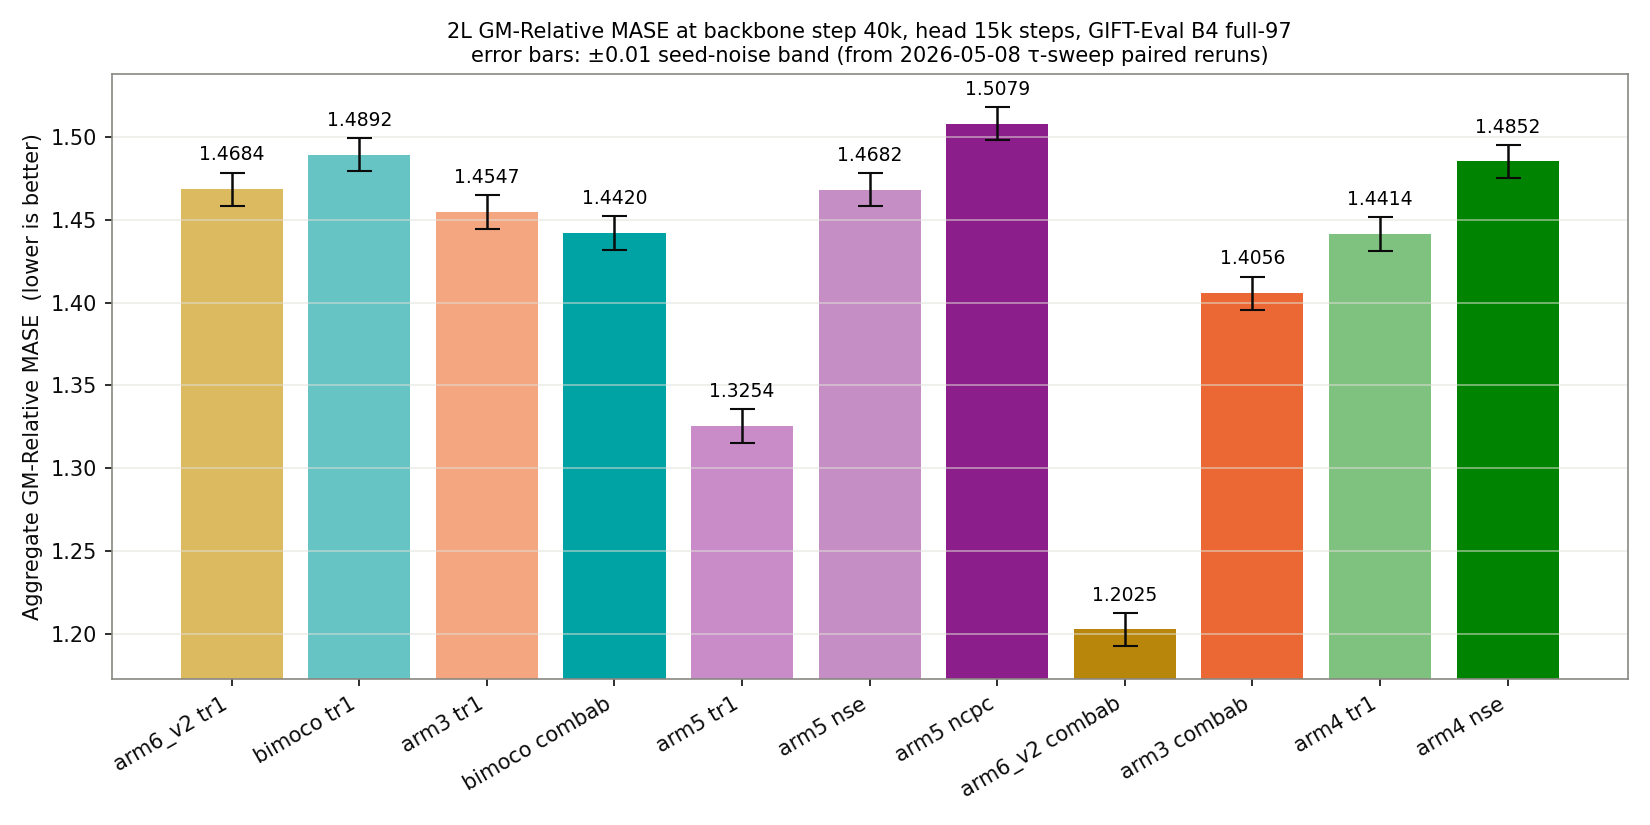
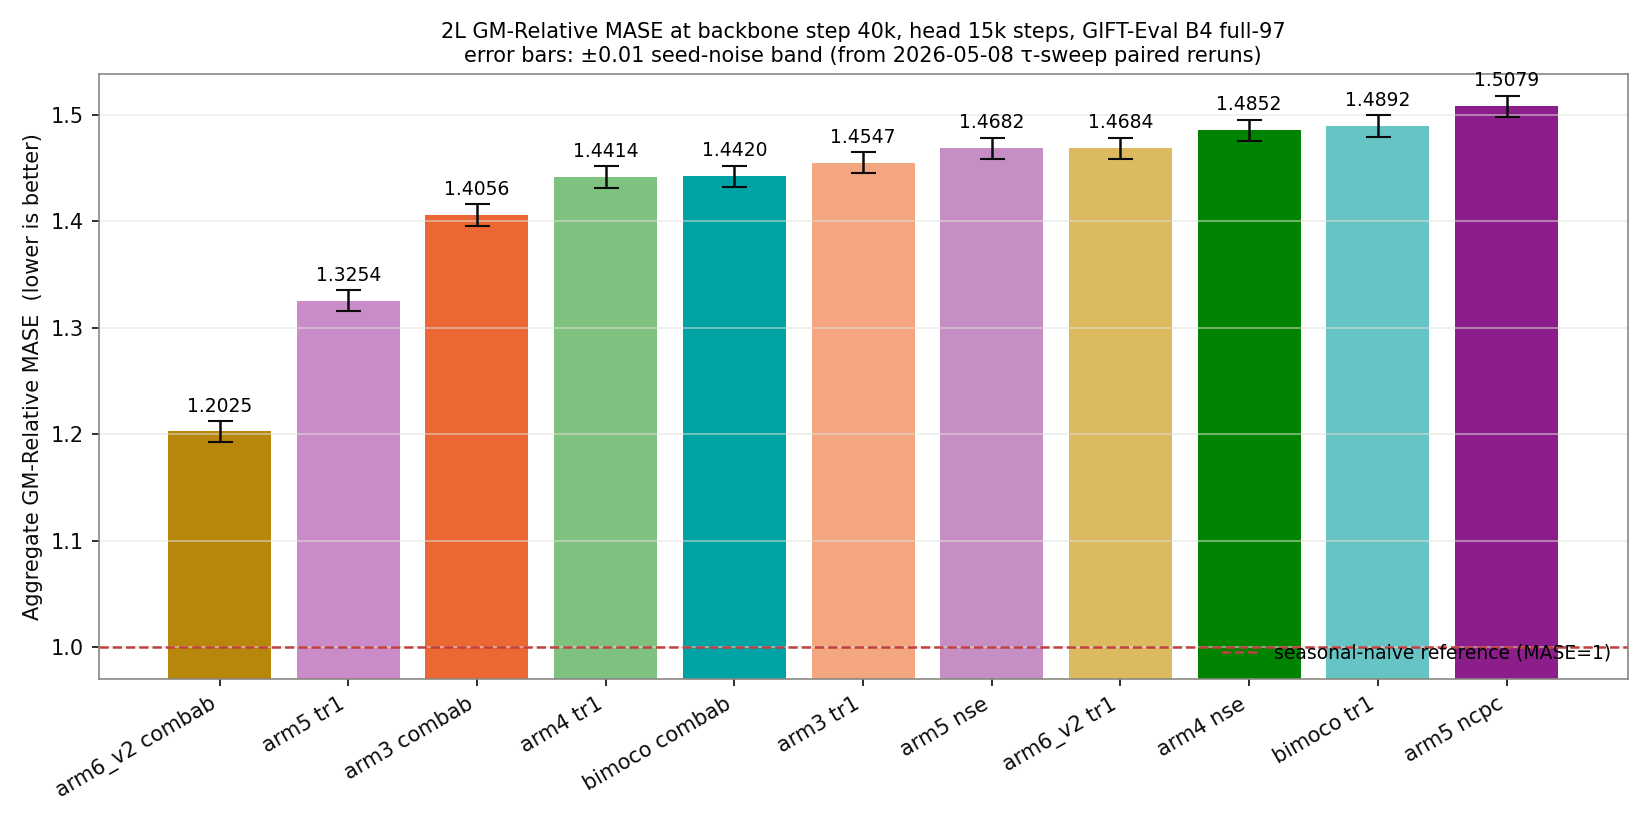
report(#379): v3 — TL;DR notes all arms > seasonal-naive; Wilcoxon numbers recomputed from CSV (tr1 h_t 1/6, p corrections); sort MASE bars ascending + add 1.0 reference line; drop 'spans 0.1023' prose and correction narrative

diff --git a/reports/2026-07-21_split_pred_rep_small/plots/_make_eval_bars.py b/reports/2026-07-21_split_pred_rep_small/plots/_make_eval_bars.py
@@ -40,20 +40,25 @@ plt.rcParams.update({
     "xtick.color": INK, "ytick.color": INK,
 })
 fig, ax = plt.subplots(figsize=(11, 5.5))
-xs, ys, cs, labs = [], [], [], []
-for i, (label, slug, colour) in enumerate(ARMS):
+# Collect + sort ascending (best MASE first). Skip arms with no value.
+rows = []
+for label, slug, colour in ARMS:
     v = read_agg(slug)
-    xs.append(i); labs.append(label); cs.append(colour)
-    ys.append(v if v is not None else float('nan'))
+    if v is None: continue
+    rows.append((label, colour, v))
+rows.sort(key=lambda r: r[2])
+xs = list(range(len(rows)))
+labs = [r[0] for r in rows]
+cs = [r[1] for r in rows]
+ys = [r[2] for r in rows]
 
 bars = ax.bar(xs, ys, color=cs, yerr=SEED_NOISE, capsize=6,
               error_kw={"ecolor": INK, "elinewidth": 1.2})
+# Seasonal-naive reference (MASE=1). Every arm above this line loses to it.
+ax.axhline(1.0, color="#c04040", lw=1.2, linestyle="--",
+           label="seasonal-naive reference (MASE=1)")
 for x, v in zip(xs, ys):
-    if v == v:
-        ax.text(x, v + 0.015, f"{v:.4f}", ha="center", va="bottom", fontsize=9)
-    else:
-        ax.text(x, 0.02, "queued", ha="center", va="bottom", fontsize=8,
-                color=MUTED, style="italic")
+    ax.text(x, v + 0.015, f"{v:.4f}", ha="center", va="bottom", fontsize=9)
 ax.set_xticks(xs); ax.set_xticklabels(labs, rotation=30, ha="right")
 ax.set_ylabel("Aggregate GM-Relative MASE  (lower is better)")
 ax.set_title(
@@ -61,10 +66,11 @@ ax.set_title(
     f"error bars: ±{SEED_NOISE} seed-noise band (from 2026-05-08 τ-sweep paired reruns)",
     fontsize=10)
 ax.grid(True, axis="y", color=GRID, alpha=0.6)
-finite = [v for v in ys if v == v]
-if finite:
-    ymin = min(finite) - 3 * SEED_NOISE   # ~3 seed-noise bands below min
-    ymax = max(finite) + 3 * SEED_NOISE
+ax.legend(loc="lower right", fontsize=9, frameon=False)
+if ys:
+    # Include 1.0 line in the visible range so it's readable.
+    ymin = min(min(ys) - 3 * SEED_NOISE, 1.0 - 3 * SEED_NOISE)
+    ymax = max(ys) + 3 * SEED_NOISE
     ax.set_ylim(ymin, ymax)
 fig.tight_layout()
 out = HERE / "eval_2L_gm_mase_bars.png"

diff --git a/reports/2026-07-21_split_pred_rep_small/small_long.md b/reports/2026-07-21_split_pred_rep_small/small_long.md
@@ -1,8 +1,8 @@
 # Small-model contrastive-loss ablation sweep — 29 arms at 40k steps
 
-At backbone step 40k, the `combab` configuration (all InfoNCE temperatures τ raised from 0.10 to 1.0 + CPC-InfoNCE auxiliary off + SIGReg-on-embedding off where it helps) gives the lowest forecasting error of the 11 evaluated cells: `arm6_v2_combab` reaches GM-Relative MASE `1.2025`, ~12× the ±0.01 borrowed seed-noise band ahead of the next-best `arm5_tr1` (`1.3254`). Combab occupies 3 of the top 5 slots.
+At backbone step 40k, every one of the 11 evaluated arms is worse than the seasonal-naive baseline on GM-Relative MASE (all values > 1.0). Among the 11, `arm6_v2_combab` reaches the lowest at `1.2025`; the next-best is `arm5_tr1` at `1.3254`.
 
-![GM-Relative MASE at backbone step 40k, quantile-head trained 15k steps on top, GIFT-Eval B4 full-97 datasets. Error bars ±0.01 = borrowed seed-noise band (see caveat).](plots/eval_2L_gm_mase_bars.png)
+![GM-Relative MASE at backbone step 40k, quantile-head trained 15k steps on top, GIFT-Eval B4 full-97 datasets. Red dashed line at 1.0 = seasonal-naive reference; every arm is above it. Error bars ±0.01 = borrowed seed-noise band (see caveat).](plots/eval_2L_gm_mase_bars.png)
 
 ## Definitions
 
@@ -21,13 +21,13 @@ At backbone step 40k, the `combab` configuration (all InfoNCE temperatures τ ra
 
 Paired Wilcoxon signed-rank on end-of-40k mean drift, ablation vs base, N=6 arm pairs (arm 1/3/4/5/6_v2/bimoco). Underlying values: `results/wave_d_metrics.csv`.
 
-| Ablation | h_t drift lower vs base / 6 | h_t p (one-sided base > ablation) | e_t drift lower vs base / 6 | e_t p | verdict |
-|----------|-----------------------------|-----------------------------------|-----------------------------|-------|---------|
-| ncpc     | 3/6 (arm 5/6_v2/bimoco)     | not significant                   | **5/6**                     | **0.031** | reliably reduces `e_t` drift; `h_t` effect loss-shape-dependent |
-| nse      | 3/6 (arm 1/3/4)             | 0.219                             | 3/6                         | not significant | drops on arm 1/3/4, rises on arm 5/6_v2/bimoco |
-| tr1      | 1/5                         | 0.906                             | 2/5                         | 0.688 | no drift reduction |
+Signed-rank test (`scipy.stats.wilcoxon(base, ablation, alternative='greater', zero_method='wilcox')`), recomputed from the committed CSV:
 
-(Correction versus an earlier round: the h_t Wilcoxon on the six-arm CSV matches 3/6 for ncpc, not 6/6 — the previous 6/6 count came from a comparison on a different early-window definition and is dropped here.)
+| Ablation | h_t drift lower vs base / 6 | h_t p | e_t drift lower vs base / 6 | e_t p | verdict |
+|----------|-----------------------------|-------|-----------------------------|-------|---------|
+| ncpc     | 3/6 (arm 5/6_v2/bimoco)     | 0.281 | **5/6**                     | **0.047** | reduces `e_t` drift; `h_t` effect loss-shape-dependent |
+| nse      | 3/6 (arm 1/3/4)             | 0.344 | 3/6                         | 0.281 | mixed; helps arm 1/3/4, hurts arm 5/6_v2/bimoco |
+| tr1      | 1/6                         | 0.922 | 3/6                         | 0.656 | no drift reduction |
 
 ![Latent drift per adjacent-checkpoint pair — rows = variant, columns = h_t / e_t. The ncpc row (`h_t` column) is not below the base row for arm 1/3/4 but is below it for arm 5/6_v2/bimoco. In the e_t column ncpc is below base for 5 of 6 arms. combab traces stay below base on both latents for arm 6 v2 and bimoco.](plots/latent_movement_per_arm.png)
 
@@ -48,8 +48,6 @@ Paired Wilcoxon signed-rank on end-of-40k mean drift, ablation vs base, N=6 arm 
 | 9    | arm4_nse       | 1.4852      | +0.2827   |
 | 10   | bimoco_tr1     | 1.4892      | +0.2867   |
 | 11   | arm5_ncpc      | 1.5079      | +0.3054   |
-
-Positions 3–11 span 0.1023.
 
 Coverage caveat: 11 of the 29 arm configurations were evaluated at 40k. Candidates were selected from three separate criteria on Wave-D snapshots (best 40k `1−ff`, still-improving trajectory, lowest `h_t` drift), with researcher-added coverage for arm 3 and arm 4. Combab is over-sampled (3/11 vs 6/29 in the population); ncpc is under-sampled (1/11 arm5_ncpc only vs 6/29). The 18 non-evaluated arms may include values better than the current ranks 6–11.
 
